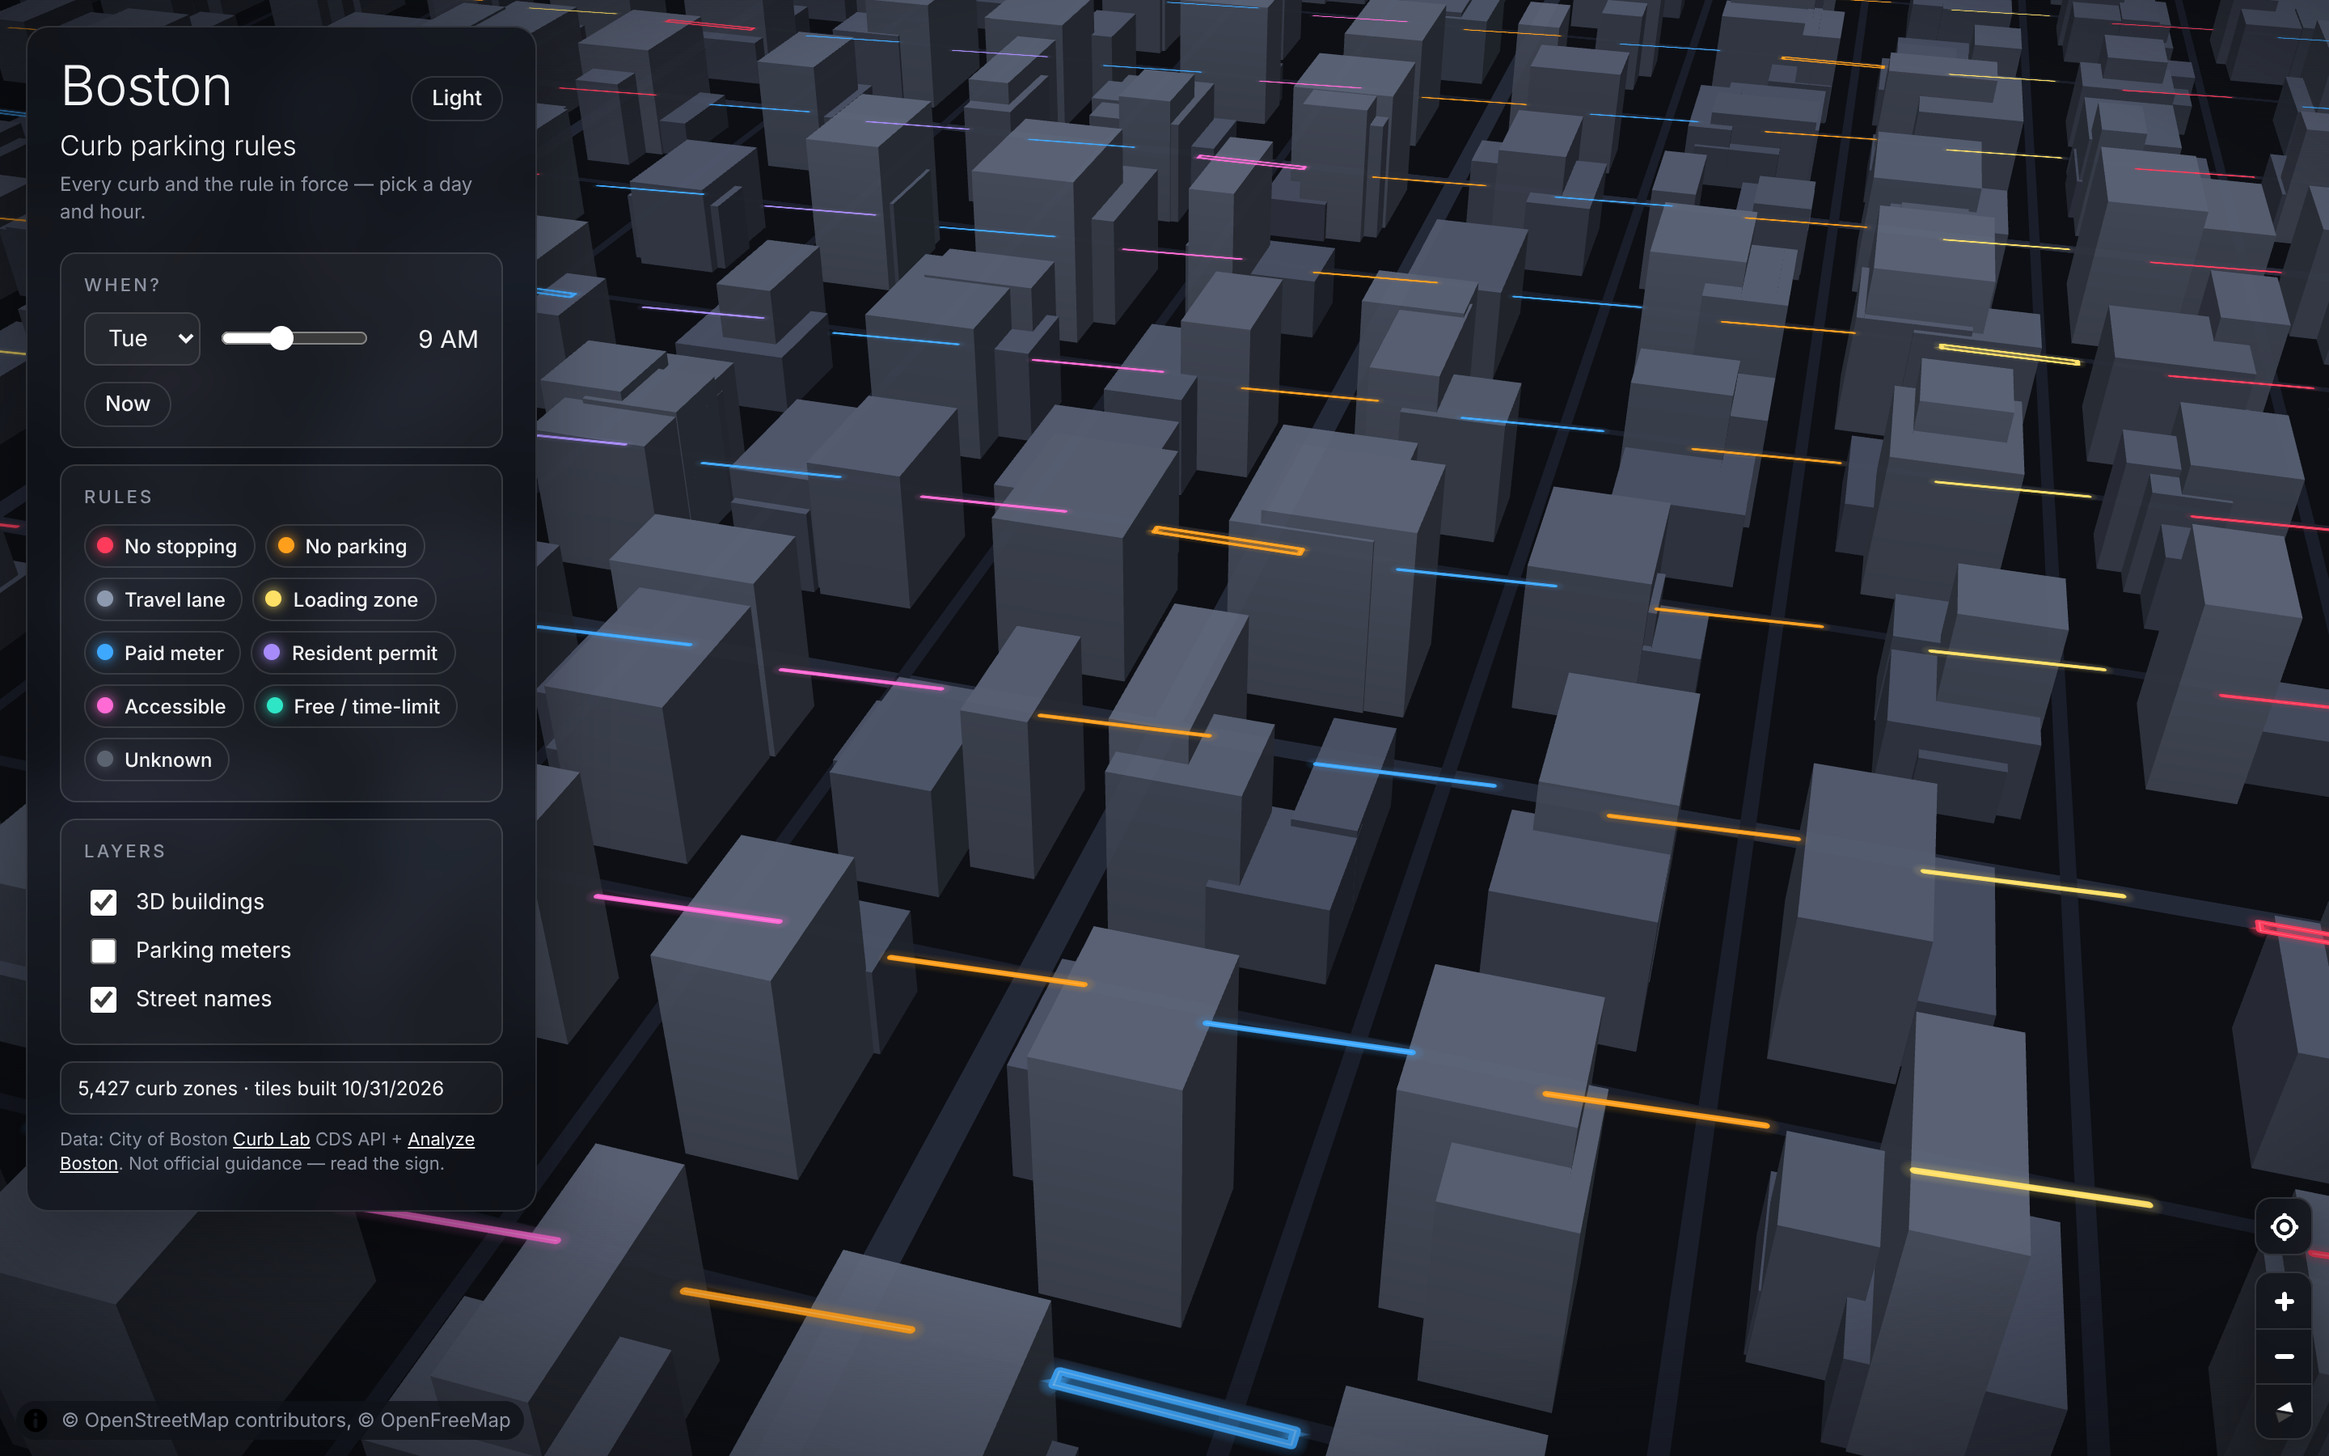
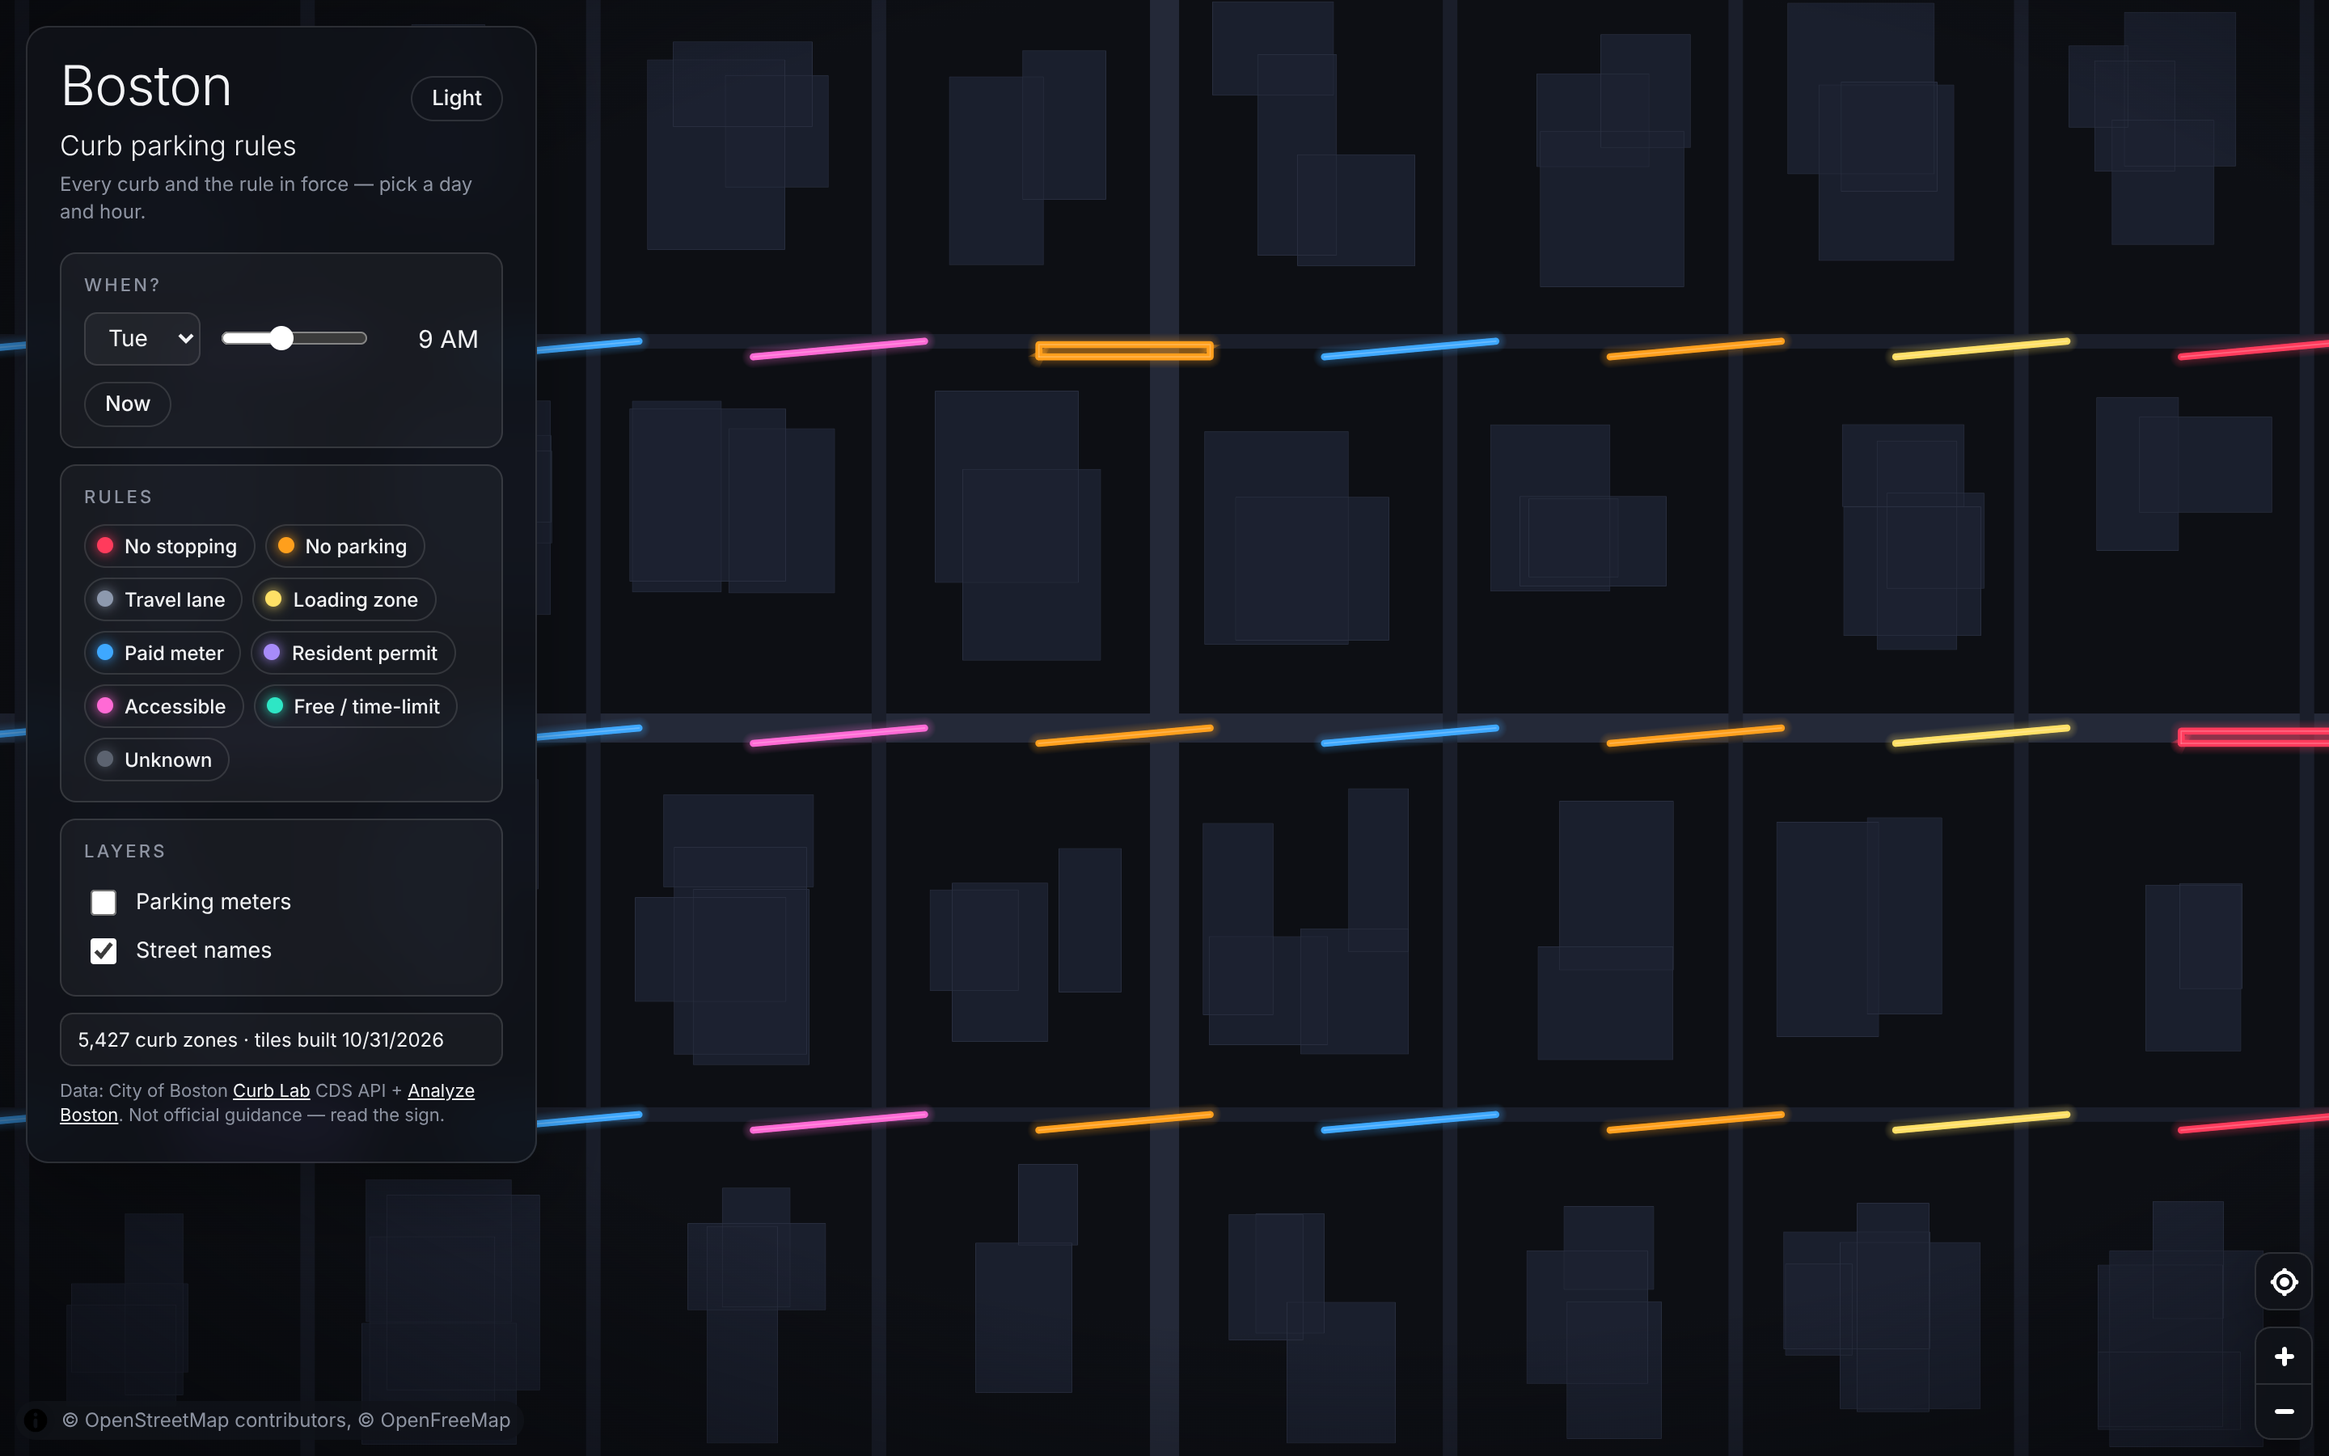
2D only: flat building footprints, pitch/rotate locked, 3D toggle removed
Claude-Session: https://claude.ai/code/session_014uf1juZvf3UE21zDhaCA5r

diff --git a/src/basemap.js b/src/basemap.js
@@ -1,5 +1,5 @@
 // Basemap + overlay style, built per theme so the whole map can switch with map.setStyle(diff).
-// Vector tiles: OpenFreeMap (OpenMapTiles schema, free, no key). 3D buildings extrude by height.
+// Vector tiles: OpenFreeMap (OpenMapTiles schema, free, no key). Flat 2D, like Google Maps.
 // Curb lines are part of the style so they survive theme switches.
 
 export const OFM_TILES = "https://tiles.openfreemap.org/planet";
@@ -8,12 +8,12 @@ export const OFM_GLYPHS = "https://tiles.openfreemap.org/fonts/{fontstack}/{rang
 export const PALETTES = {
   dark: {
     bg: "#0d0f14", water: "#07090f", park: "#111a16", road: "#1a1e2a", roadMajor: "#242938", roadOutline: "#0d0f14",
-    building: "#262b38", buildingMid: "#353b4b", buildingTop: "#4a5162", label: "#c3c9d6", labelMuted: "#7b8294", halo: "#0d0f14",
+    building: "#1c2130", buildingTop: "#2a3041", label: "#c3c9d6", labelMuted: "#7b8294", halo: "#0d0f14",
     glowOpacity: 0.55, core: "#ffffff", fillOpacity: 0.25,
   },
   light: {
     bg: "#eef0f3", water: "#cfd9e6", park: "#dde7dc", road: "#ffffff", roadMajor: "#ffffff", roadOutline: "#d7dbe2",
-    building: "#d6d9e0", buildingMid: "#e2e5eb", buildingTop: "#f1f2f5", label: "#2b303c", labelMuted: "#6b7282", halo: "#eef0f3",
+    building: "#e1e4ea", buildingTop: "#d2d6de", label: "#2b303c", labelMuted: "#6b7282", halo: "#eef0f3",
     glowOpacity: 0.3, core: "#ffffff", fillOpacity: 0.3,
   },
 };
@@ -64,14 +64,9 @@ export function buildStyle(theme, { colorExpr, hoverExpr, tiles, filter } = {}) 
       { id: "rail", type: "line", source: "omt", "source-layer": "transportation", filter: ["==", "class", "rail"], minzoom: 12,
         paint: { "line-color": P.roadOutline, "line-width": 1, "line-dasharray": [3, 3] } },
 
-      // The city: extruded buildings grow in as you zoom past z13 (flat footprints at city scale).
-      { id: "buildings-3d", type: "fill-extrusion", source: "omt", "source-layer": "building", minzoom: 12.5,
-        paint: {
-          "fill-extrusion-color": ["interpolate", ["linear"], ["coalesce", ["get", "render_height"], 10], 0, P.building, 60, P.buildingMid, 150, P.buildingTop],
-          "fill-extrusion-height": ["interpolate", ["linear"], ["zoom"], 13, 0, 14.8, ["coalesce", ["get", "render_height"], 10]],
-          "fill-extrusion-base": ["interpolate", ["linear"], ["zoom"], 13, 0, 14.8, ["coalesce", ["get", "render_min_height"], 0]],
-          "fill-extrusion-opacity": 0.92, "fill-extrusion-vertical-gradient": true,
-        } },
+      // Flat building footprints (Google-Maps-2D style), fading in from z13.
+      { id: "buildings", type: "fill", source: "omt", "source-layer": "building", minzoom: 13,
+        paint: { "fill-color": P.building, "fill-outline-color": P.buildingTop, "fill-opacity": ["interpolate", ["linear"], ["zoom"], 13, 0, 14.5, 0.9] } },
 
       // Curb lines: soft halo → colored line → thin bright core. Thin and bright at city scale, chunky up close.
       { id: "zone-fill", type: "fill", ...curb, filter: withFilter(["==", ["geometry-type"], "Polygon"]), paint: { "fill-color": colorExpr, "fill-opacity": P.fillOpacity } },

diff --git a/src/main.js b/src/main.js
@@ -70,17 +70,18 @@ const map = new maplibregl.Map({
   container: "map",
   center: [-71.0589, 42.3601],
   zoom: 12.2,
-  pitch: 0,
-  bearing: 0,
   minZoom: 9,
   maxZoom: 20,
-  maxPitch: 72,
+  maxPitch: 0,          // 2D only
+  pitchWithRotate: false,
+  dragRotate: false,
+  touchPitch: false,
   antialias: true,
   attributionControl: false,
   style: buildStyle(theme, styleOpts()),
 });
 window.__map = map; // handy in devtools / screenshot script
-map.addControl(new maplibregl.NavigationControl({ visualizePitch: true }), "bottom-right");
+map.addControl(new maplibregl.NavigationControl({ showCompass: false }), "bottom-right");
 map.addControl(new maplibregl.GeolocateControl({ positionOptions: { enableHighAccuracy: true }, trackUserLocation: true }), "bottom-right");
 map.addControl(new maplibregl.AttributionControl({ compact: true }), "bottom-left");
 
@@ -88,7 +89,6 @@ let metersData = null;
 function applyLayerToggles() {
   for (const id of METER_LAYERS) map.setLayoutProperty(id, "visibility", $("#showMeters").checked ? "visible" : "none");
   for (const id of LABEL_LAYERS) map.setLayoutProperty(id, "visibility", $("#showLabels").checked ? "visible" : "none");
-  map.setLayoutProperty("buildings-3d", "visibility", $("#show3d").checked ? "visible" : "none");
 }
 // After any setStyle (theme switch) the GeoJSON sources come back empty: refill them.
 map.on("style.load", () => {
@@ -96,16 +96,6 @@ map.on("style.load", () => {
   repaint();
   if (metersData) map.getSource("meters")?.setData(metersData);
 });
-
-// Google-Maps-style camera: flat at city scale, tilts in as you get close to the blocks (unless 3D is off).
-let autoTilt = true;
-map.on("zoomend", () => {
-  if (!autoTilt || !$("#show3d").checked) return;
-  const z = map.getZoom();
-  const want = z >= 15 ? 55 : z >= 14 ? 35 : 0;
-  if (Math.abs(map.getPitch() - want) > 5) map.easeTo({ pitch: want, duration: 500 });
-});
-map.on("pitchstart", (e) => { if (e.originalEvent) autoTilt = false; });
 
 map.on("load", () => {
   buildLegend();
@@ -260,11 +250,6 @@ $("#day").addEventListener("change", (e) => { day = e.target.value; syncTime(); 
 $("#nowBtn").addEventListener("click", () => { day = dayKey(); hour = new Date().getHours(); syncTime(); });
 $("#showMeters").addEventListener("change", (e) => { applyLayerToggles(); if (e.target.checked && !metersData && !(mode === "tiles" && manifest.meters > 0)) loadMeters(); });
 $("#showLabels").addEventListener("change", applyLayerToggles);
-$("#show3d").addEventListener("change", (e) => {
-  applyLayerToggles();
-  autoTilt = e.target.checked;
-  map.easeTo({ pitch: e.target.checked && map.getZoom() >= 14 ? 55 : 0, duration: 600 });
-});
 function setTheme(t) {
   theme = t;
   document.documentElement.dataset.theme = t;

diff --git a/test/basemap.test.js b/test/basemap.test.js
@@ -19,14 +19,14 @@ describe.each(["dark", "light"])("buildStyle(%s)", (theme) => {
     expect(layer("bg").paint["background-color"]).toBe(PALETTES[theme].bg);
     expect(layer("road-label").paint["text-color"]).toBe(PALETTES[theme].label);
   });
-  it("has height-driven 3D buildings that are flat at city scale", () => {
-    const b = layer("buildings-3d");
-    expect(b.type).toBe("fill-extrusion");
-    expect(JSON.stringify(b.paint["fill-extrusion-height"])).toMatch(/render_height/);
-    expect(b.paint["fill-extrusion-height"][4]).toBe(0); // zoom 13 → 0 height
+  it("has flat 2D building footprints (no extrusion anywhere)", () => {
+    const b = layer("buildings");
+    expect(b.type).toBe("fill");
+    expect(b.minzoom).toBe(13);
+    expect(style.layers.some((l) => l.type === "fill-extrusion")).toBe(false);
   });
-  it("orders buildings < curb lines < labels, so curbs thread between towers and labels stay readable", () => {
-    expect(ids.indexOf("buildings-3d")).toBeLessThan(ids.indexOf("zone-glow"));
+  it("orders buildings < curb lines < labels, so curbs draw over footprints and labels stay readable", () => {
+    expect(ids.indexOf("buildings")).toBeLessThan(ids.indexOf("zone-glow"));
     expect(ids.indexOf("zone-core")).toBeLessThan(ids.indexOf("road-label"));
     for (const id of [...LABEL_LAYERS, ...METER_LAYERS, "zone-fill", "zone-glow", "zone-line", "zone-core"]) expect(ids).toContain(id);
   });

diff --git a/test/e2e.test.js b/test/e2e.test.js
@@ -201,7 +201,7 @@ describe.skipIf(!hasDist)("built front-end is served", () => {
     const bundle = await jr.text();
     expect(bundle).toMatch(/\/api\/zones\?bbox=/); // front-end actually calls our API
     expect(bundle).toMatch(/tiles\.openfreemap\.org/);
-    expect(bundle).toMatch(/fill-extrusion-height/); // 3D buildings present
+    expect(bundle).not.toMatch(/buildings-3d/); // 2D only (our style has no extrusion layer)
     expect(bundle).toMatch(/lite=1/); // citywide overview wired up
     expect(html).not.toMatch(/fonts\.googleapis/); // system font only
     expect(html).toMatch(/dataset\.theme/); // theme bootstrapped before paint

diff --git a/index.html b/index.html
@@ -41,7 +41,6 @@
 
       <section class="card">
         <h2>Layers</h2>
-        <label class="toggle"><input type="checkbox" id="show3d" checked /> <span>3D buildings</span></label>
         <label class="toggle"><input type="checkbox" id="showMeters" /> <span>Parking meters</span></label>
         <label class="toggle"><input type="checkbox" id="showLabels" checked /> <span>Street names</span></label>
       </section>

diff --git a/scripts/screenshot.py b/scripts/screenshot.py
@@ -32,16 +32,15 @@ INJECT = """() => new Promise(res => {
     }
     map.addSource("demo-bld", { type: "geojson", data: { type: "FeatureCollection", features: bld } });
     map.addSource("demo-st", { type: "geojson", data: { type: "FeatureCollection", features: st } });
-    const b3d = map.getLayer("buildings-3d");
-    const paint = {}; for (const k of ["fill-extrusion-color","fill-extrusion-height","fill-extrusion-base","fill-extrusion-opacity","fill-extrusion-vertical-gradient"]) paint[k] = map.getPaintProperty("buildings-3d", k);
+    const paint = { "fill-color": map.getPaintProperty("buildings", "fill-color"), "fill-outline-color": map.getPaintProperty("buildings", "fill-outline-color"), "fill-opacity": 0.9 };
     const rc = (id) => map.getPaintProperty(id, "line-color");
     const z = map.getZoom(), big = z >= 15;
-    map.addLayer({ id: "demo-st-outline", type: "line", source: "demo-st", layout: { "line-cap": "round" }, paint: { "line-color": rc("road-outline"), "line-width": ["case", ["get","major"], big ? 22 : 3, big ? 12 : 1.5] } }, "buildings-3d");
-    map.addLayer({ id: "demo-st", type: "line", source: "demo-st", layout: { "line-cap": "round" }, paint: { "line-color": ["case", ["get","major"], rc("road-major"), rc("road-minor")], "line-width": ["case", ["get","major"], big ? 18 : 2, big ? 9 : 0.8] } }, "buildings-3d");
-    map.addLayer({ id: "demo-bld", type: "fill-extrusion", source: "demo-bld", paint }, "buildings-3d");
+    map.addLayer({ id: "demo-st-outline", type: "line", source: "demo-st", layout: { "line-cap": "round" }, paint: { "line-color": rc("road-outline"), "line-width": ["case", ["get","major"], big ? 22 : 3, big ? 12 : 1.5] } }, "buildings");
+    map.addLayer({ id: "demo-st", type: "line", source: "demo-st", layout: { "line-cap": "round" }, paint: { "line-color": ["case", ["get","major"], rc("road-major"), rc("road-minor")], "line-width": ["case", ["get","major"], big ? 18 : 2, big ? 9 : 0.8] } }, "buildings");
+    map.addLayer({ id: "demo-bld", type: "fill", source: "demo-bld", paint }, "buildings");
     map.once("idle", res);
   };
-  const tick = () => (map.getLayer && map.getLayer("buildings-3d") && map.isStyleLoaded()) ? run() : setTimeout(tick, 100);
+  const tick = () => (map.getLayer && map.getLayer("buildings") && map.isStyleLoaded()) ? run() : setTimeout(tick, 100);
   tick();
 })"""
 
@@ -78,11 +77,11 @@ async def main():
             print("saved", out, "|", await page.locator("#status").inner_text())
             await ctx.close()
         os.makedirs(OUT, exist_ok=True)
-        BLOCK = {"center": [-71.0589, 42.3601], "zoom": 15.6, "pitch": 55, "bearing": -17}
-        CITY = {"center": [-71.07, 42.33], "zoom": 11.6, "pitch": 0, "bearing": 0}
+        BLOCK = {"center": [-71.0589, 42.3601], "zoom": 15.6}
+        CITY = {"center": [-71.07, 42.33], "zoom": 11.6}
         await shot(1440, 900, f"{OUT}/preview-desktop.png", view=BLOCK, theme="dark")
         await shot(1440, 900, f"{OUT}/preview-city.png", view=CITY, theme="dark", popup=False)
         await shot(1440, 900, f"{OUT}/preview-light.png", view=BLOCK, theme="light")
-        await shot(430, 860, f"{OUT}/preview-mobile.png", mobile=True, popup=False, hour=17, view={"center": [-71.0589, 42.3601], "zoom": 15.2, "pitch": 55, "bearing": -17}, theme="dark")
+        await shot(430, 860, f"{OUT}/preview-mobile.png", mobile=True, popup=False, hour=17, view={"center": [-71.0589, 42.3601], "zoom": 15.2}, theme="dark")
         await b.close()
 asyncio.run(main())

diff --git a/README.md b/README.md
@@ -1,11 +1,11 @@
 # Boston curb parking rules
 
-![Dark, block scale](docs/preview-desktop.png)
+![Block scale](docs/preview-desktop.png)
 ![Citywide overview](docs/preview-city.png)
 ![Light mode](docs/preview-light.png)
 *Preview shot against the mock city API with stand-in buildings; live, the towers are real OpenFreeMap footprints with heights and the curb lines follow actual street edges.*
 
-An interactive 3D map of **every curb in Boston and the parking rule that applies** — right now, or at any day/hour you pick.
+An interactive map of **every curb in Boston and the parking rule that applies** — right now, or at any day/hour you pick.
 
 Live data comes from the City of Boston's [Curb Lab](https://www.boston.gov/curb-lab), which publishes a public [Curb Data Specification](https://github.com/openmobilityfoundation/curb-data-specification) (CDS) feed at `https://cds-curb-api.boston.gov`. Parking meters come from the City's [ArcGIS Hub Parking Meters item](https://bostonopendata-boston.opendata.arcgis.com/datasets/parking-meters/api).
 
@@ -87,4 +87,4 @@ npm run build && npm run serve
 
 ## Themes
 
-Dark by default (or follows `prefers-color-scheme`); the toggle persists in `localStorage`. Both themes share one layer list so `map.setStyle(…, { diff: true })` swaps paint in place. UI uses the system font stack (Helvetica Neue / Segoe / Roboto) — no web fonts, no logos.
+Dark by default (or follows `prefers-color-scheme`); the toggle persists in `localStorage`. The map is strictly 2D (pitch and rotation locked, like Google Maps). Both themes share one layer list so `map.setStyle(…, { diff: true })` swaps paint in place. UI uses the system font stack (Helvetica Neue / Segoe / Roboto) — no web fonts, no logos.
